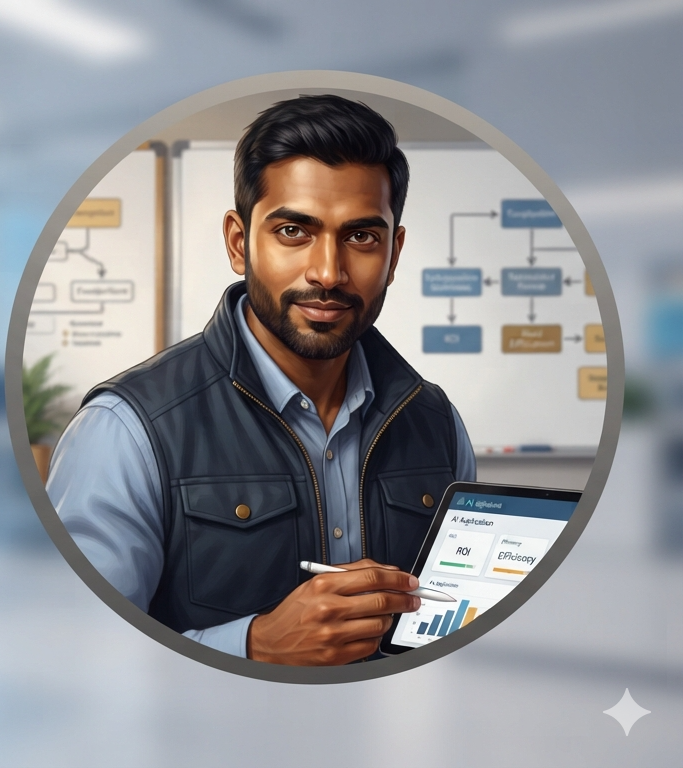
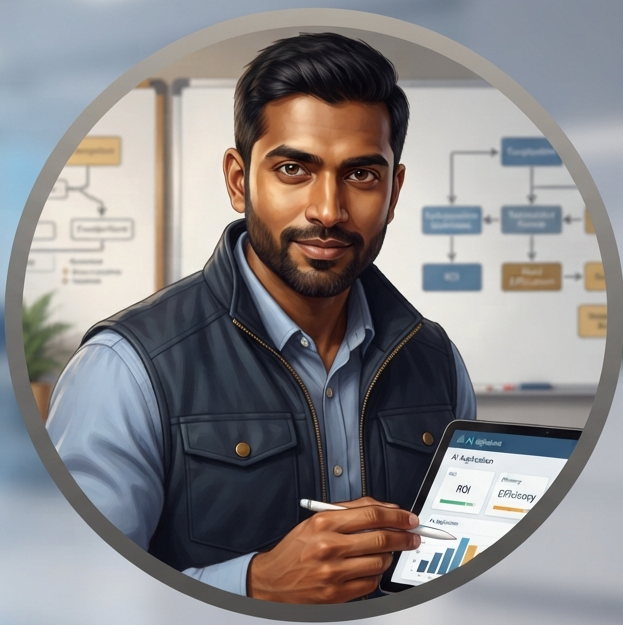
hackathon ready model

diff --git a/SucreLabs/src/App.tsx b/SucreLabs/src/App.tsx
@@ -148,7 +148,7 @@ export default function App() {
           <Logo size={26} />
         </div>
 
-        <div className="flex-1 overflow-y-auto flex flex-col items-center justify-center p-6 sm:p-10 relative">
+        <div className="flex-1 overflow-y-auto flex flex-col items-center justify-start md:justify-center pt-10 px-6 pb-8 sm:p-10 relative">
           {/* Signature ambient glow behind the hero, echoing the logo's lit bulb */}
           <div
             className="pointer-events-none absolute top-1/4 left-1/2 -translate-x-1/2 w-[560px] h-[560px] rounded-full blur-[100px] opacity-25"
@@ -170,7 +170,7 @@ export default function App() {
                 Leave with a sharper answer.
               </h1>
               <p className="text-sm text-[var(--color-muted)] max-w-md mx-auto">
-                Put it to a live panel of AI experts, or turn it into a fully sourced research document —
+                Put it to a live panel of AI experts, or turn it into a fully sourced research document!! 
                 same workspace, either direction.
               </p>
             </div>

diff --git a/backend/src/lib/personas.js b/backend/src/lib/personas.js
@@ -4,9 +4,9 @@
 // Models the BTL runtime supports. The user picks one per persona in the
 // UI before a round starts -- there is no server-side default model
 // anymore (previously env-based, now always explicit per persona).
-export const ALLOWED_MODELS = [ "gpt-4.1-mini", "btl-2","nova-lite-v1", "deepseek-v4-flash"];
+export const ALLOWED_MODELS = [ "gpt-4.1-mini", "btl-2","nova-lite-v1", "deepseek-v4-flash","gemma-3-27b-it","seed-1.6-flash","ring-2.6-1t","llama-3.3-70b-instruct","granite-4.1-8b","gemini-2.5-pro","grok-build-0.1"];
 export const FALLBACK_MODEL = "gpt-4.1-mini";
-export const MODERATOR_MODEL = "gpt-4o-mini";
+export const MODERATOR_MODEL = "gpt-4o-mini"; 
 export function sanitizeModel(model) {
      if (!ALLOWED_MODELS.includes(model)) {
     console.log(`Model "${model}" not in ALLOWED_MODELS, falling back to ${FALLBACK_MODEL}`);

diff --git a/SucreLabs/src/PanelPage.tsx b/SucreLabs/src/PanelPage.tsx
@@ -292,7 +292,7 @@ export default function PanelPage() {
     const c = conflicts.find((c) => c.persona_id === personaId);
     if (!c?.conflicts_with) return null;
     const partner = personasMeta[c.conflicts_with]?.role_label;
-    return partner ? `rebutting ${partner} · agreement ${c.similarity}` : null;
+    return partner ? `rebutting ${partner} ·` : null;
   }
 
   function historyFor(personaId: string): PersonaHistoryEntry[] {

diff --git a/SucreLabs/src/Signup.tsx b/SucreLabs/src/Signup.tsx
@@ -33,7 +33,7 @@ export default function Signup() {
         <form onSubmit={handleSubmit} className="w-full flex flex-col gap-4">
           <div>
             <h1 className="font-[family-name:var(--font-display)] text-2xl text-center mb-1">Create your workspace</h1>
-            <p className="text-sm text-[var(--color-muted)] text-center">Your sessions stay private to your account</p>
+            <p className="text-sm text-[var(--color-muted)] text-center">Your AI partner for deep thinking and research</p>
           </div>
 
           {error && (

diff --git a/SucreLabs/src/lib/api.ts b/SucreLabs/src/lib/api.ts
@@ -104,7 +104,7 @@ export type Round1Handlers = {
   onError?: (message: string) => void;
 };
 
-export const ALLOWED_MODELS = ["gpt-4.1-mini","btl-2", "nova-lite-v1", "deepseek-v4-flash"] as const;
+export const ALLOWED_MODELS = ["gpt-4.1-mini","btl-2", "nova-lite-v1", "deepseek-v4-flash","gemma-3-27b-it","seed-1.6-flash","ring-2.6-1t","llama-3.3-70b-instruct","granite-4.1-8b","gemini-2.5-pro","grok-build-0.1"] as const;
 export type ModelId = (typeof ALLOWED_MODELS)[number];
 
 export type PanelSessionSummary = {

diff --git a/backend/src/lib/researchLab.js b/backend/src/lib/researchLab.js
@@ -44,7 +44,7 @@ export const DEFAULT_CONFIG = {
 // BTL has no live web-search endpoint -- this is the honest, spec-required
 // fallback: internal knowledge only, clearly disclosed rather than implied.
 export const RESEARCH_NOTICE =
-  "Generated from the model's internal knowledge -- live web search was not available for this run, so very recent developments may not be reflected. Verify all references before citing them in submitted work.";
+  "To avoid plagliarism Verify all references before citing them in submitted work!!!.";
 
 function configLine(config) {
   return `Academic level: ${config.academic_level}. Writing style: ${config.writing_style}. Target length: ${config.length}. Citation style: ${config.citation_style}. Language: ${config.language}. Audience: ${config.audience}. Prefer sources from: ${config.year_range}.`;